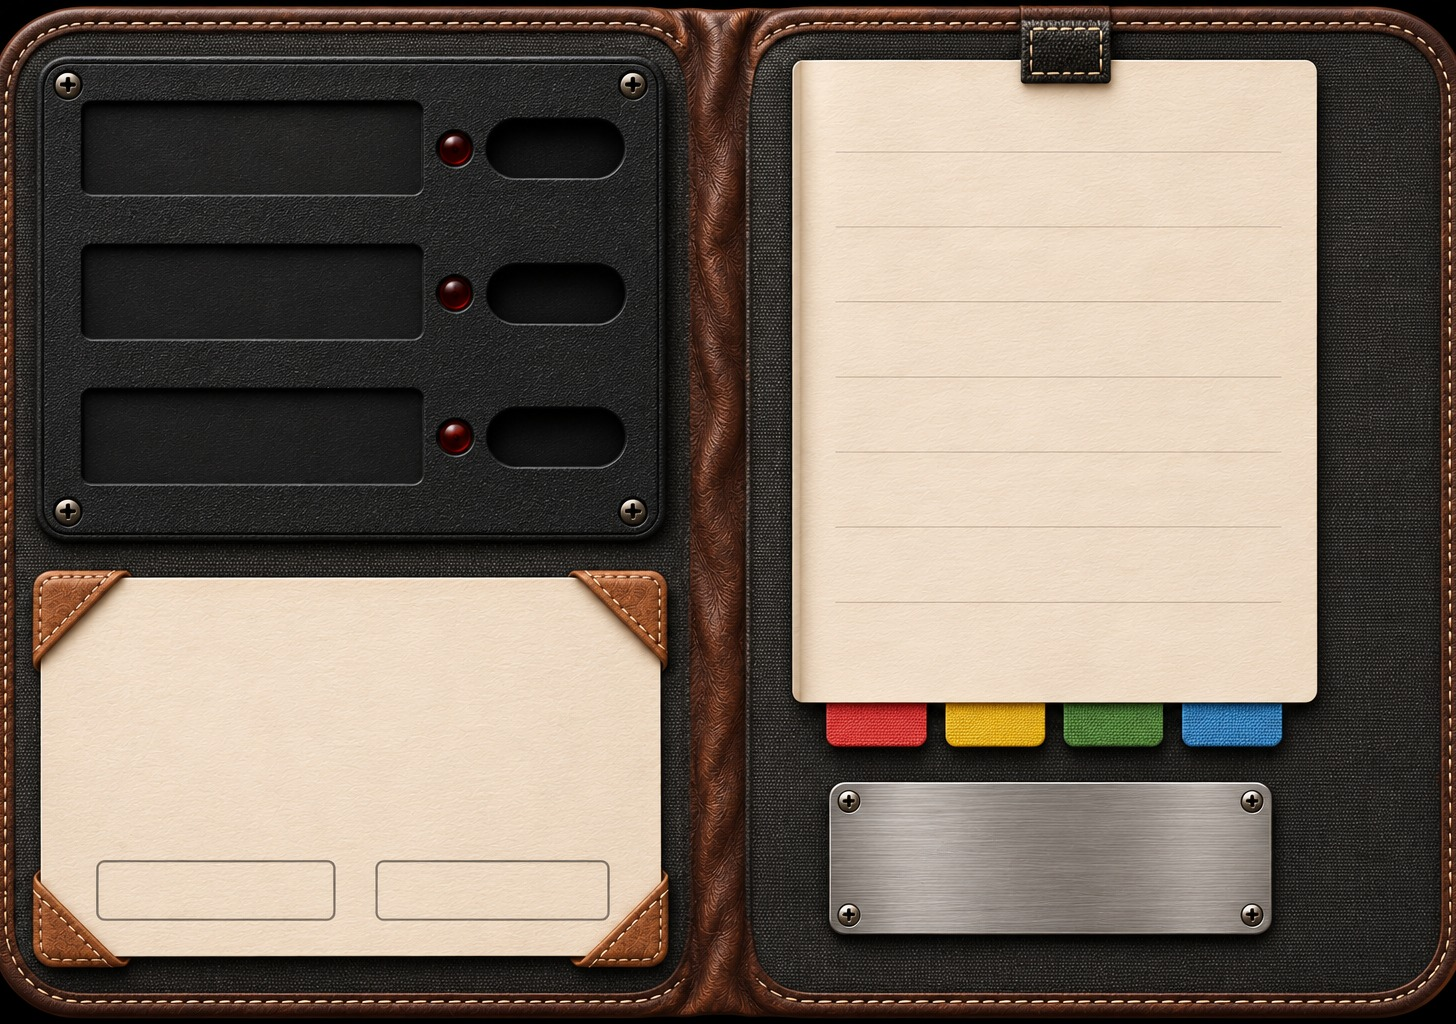
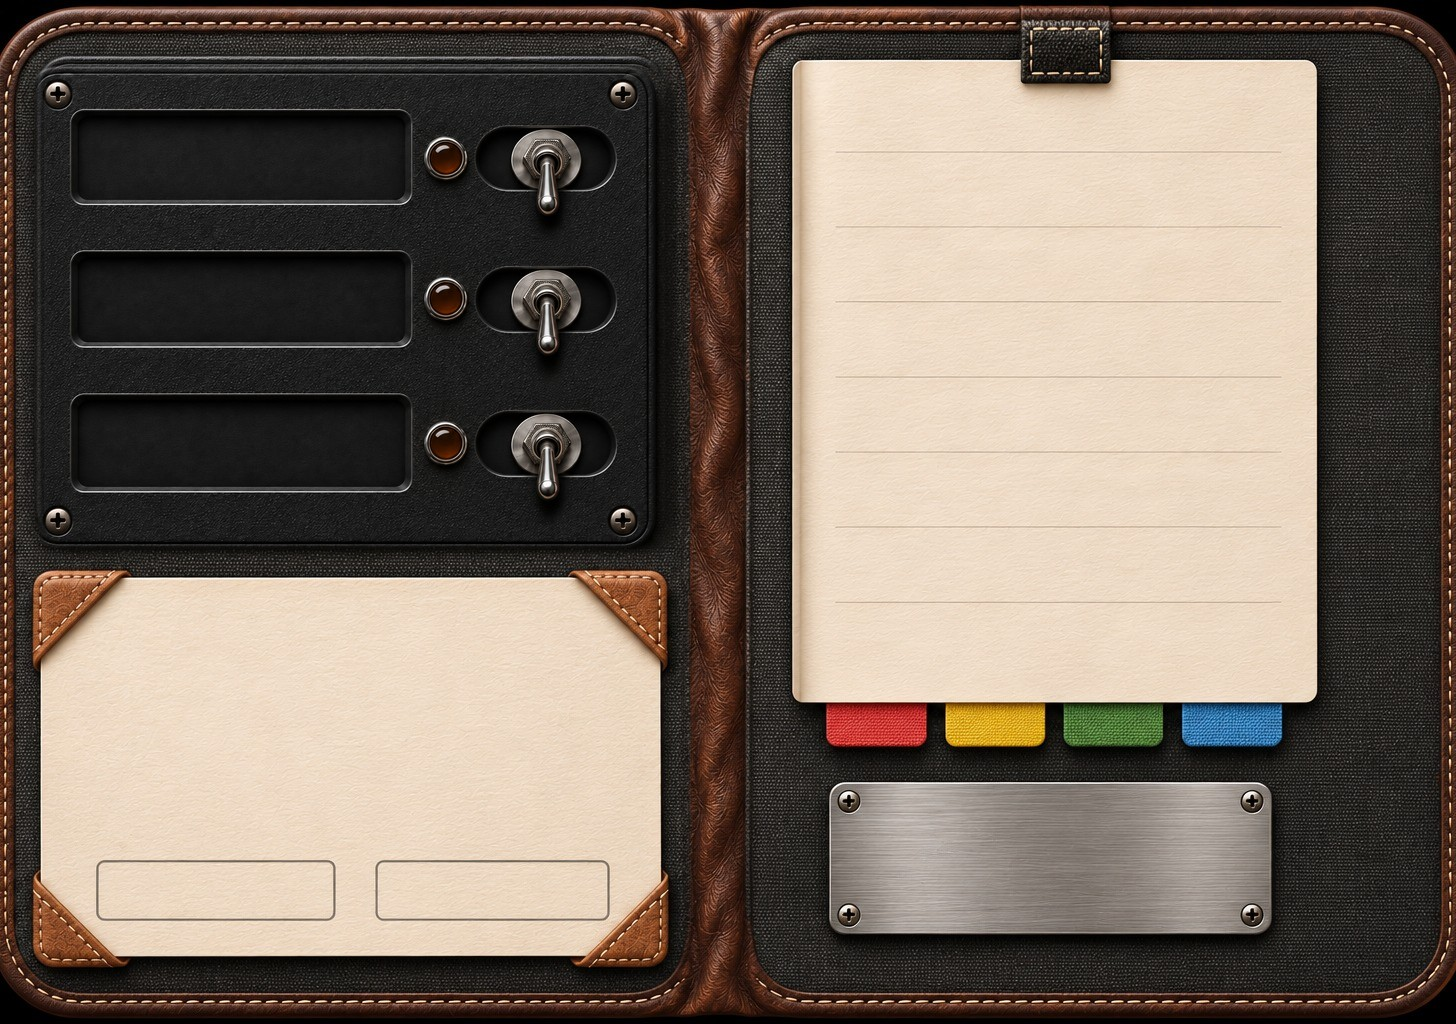
Kit switch plate redrawn (GPT, on and off states): amber lamps and chrome bat-handle toggles in place of the drawn knob and pill slot, label recesses finished on both ends; each row shows its on picture over the off plate. Build 19

Changed region(s): [[0.0309, 0.0625, 0.4636, 0.5312]]

diff --git a/cameragr/UI/MaintenanceKit.swift b/cameragr/UI/MaintenanceKit.swift
@@ -12,8 +12,10 @@ enum KitArt {
     static let spread = UIImage(named: "kit_spread.jpg") ?? UIImage()
     /// The left board with nothing on it (GPT), under the page set smaller.
     static let board = UIImage(named: "kit_board.jpg") ?? UIImage()
-    static let knob = UIImage(named: "kit_knob") ?? UIImage()
-    static let lamp = UIImage(named: "kit_lamp") ?? UIImage()
+    /// Each switch row turned on: its amber lamp lit and its toggle lever up
+    /// (GPT, design/kit/switch: the plate drawn on and off; the spread carries
+    /// it off, these are the on state's rows, laid over).
+    static let switchOn = (0..<3).map { UIImage(named: "kit_switch_on_\($0)") ?? UIImage() }
     static let ink = Color(red: 0.2, green: 0.17, blue: 0.13)
     static let cream = Color(red: 0.93, green: 0.89, blue: 0.80)
 }
@@ -45,10 +47,11 @@ struct KitSwitchPage: View {
 
     /// Measured on the picture: the plate's three rows (label recess, lamp,
     /// switch channel) and the certificate's printed boxes.
-    static let rowY: [CGFloat] = [100, 248, 396]
-    static let lampY: [CGFloat] = [148, 294, 440]
-    static let lampX: CGFloat = 456
-    static let channel = (x: CGFloat(498), width: CGFloat(128), dy: CGFloat(22), height: CGFloat(56))
+    static let rowY: [CGFloat] = [109, 250, 394]
+    /// Lamp and switch of each row, where its on picture goes.
+    static let switchOn: [CGRect] = [CGRect(x: 418, y: 83, width: 206, height: 149),
+                                     CGRect(x: 418, y: 229, width: 206, height: 149),
+                                     CGRect(x: 418, y: 372, width: 206, height: 152)]
     static let certificateText = CGRect(x: 110, y: 616, width: 500, height: 230)
     static let restore = CGRect(x: 97, y: 860, width: 236, height: 60)
     static let redeem = CGRect(x: 376, y: 860, width: 253, height: 60)
@@ -68,9 +71,6 @@ struct KitSwitchPage: View {
 
     private func switchRow(_ i: Int, title: Text, detail: Text, isOn: Binding<Bool>, apply: @escaping (Bool) -> Void) -> some View {
         let y = Self.rowY[i]
-        let c = Self.channel
-        let slot = CGRect(x: c.x, y: y + c.dy, width: c.width, height: c.height).at(s)
-        let knobH = slot.height * 0.86, knobW = knobH * KitArt.knob.size.width / max(KitArt.knob.size.height, 1)
         return ZStack(alignment: .topLeading) {
             VStack(alignment: .leading, spacing: 4 * s) {
                 title.font(.custom("American Typewriter", size: 28 * s * b).weight(.semibold))
@@ -83,20 +83,12 @@ struct KitSwitchPage: View {
             .lineLimit(1).minimumScaleFactor(0.55)
             .shadow(color: .black, radius: 0, y: -1 * s)
             .padding(.horizontal, 18 * s)
-            .place(CGRect(x: 84, y: y + 6, width: 340, height: 84), s, alignment: .leading)
+            .place(CGRect(x: 74, y: y + 6, width: 336, height: 84), s, alignment: .leading)
             .allowsHitTesting(false)
-            if isOn.wrappedValue {
-                Image(uiImage: KitArt.lamp).resizable()
-                    .frame(width: 60 * s, height: 60 * s)
-                    .offset(x: (Self.lampX - 30) * s, y: (Self.lampY[i] - 30) * s)
-                    .transition(.opacity)
-                    .allowsHitTesting(false)
-            }
-            Image(uiImage: KitArt.knob).resizable()
-                .frame(width: knobW, height: knobH)
-                .offset(x: slot.minX + (isOn.wrappedValue ? slot.width - knobW - 5 * s : 5 * s),
-                        y: slot.minY + (slot.height - knobH) / 2)
-                .animation(.spring(response: 0.22, dampingFraction: 0.8), value: isOn.wrappedValue)
+            // Off is the plate as drawn; on, the row's lit lamp and raised lever.
+            Image(uiImage: KitArt.switchOn[i]).resizable()
+                .place(Self.switchOn[i], s)
+                .opacity(isOn.wrappedValue ? 1 : 0)
                 .allowsHitTesting(false)
             // The whole row is the switch.
             Color.clear.contentShape(Rectangle())
@@ -111,7 +103,7 @@ struct KitSwitchPage: View {
                 .accessibilityValue(isOn.wrappedValue ? Text("On") : Text("Off"))
                 .accessibilityAddTraits(.isButton)
         }
-        .animation(.easeOut(duration: 0.15), value: isOn.wrappedValue)
+        .animation(.easeOut(duration: 0.1), value: isOn.wrappedValue)
     }
 
     private var certificate: some View {
